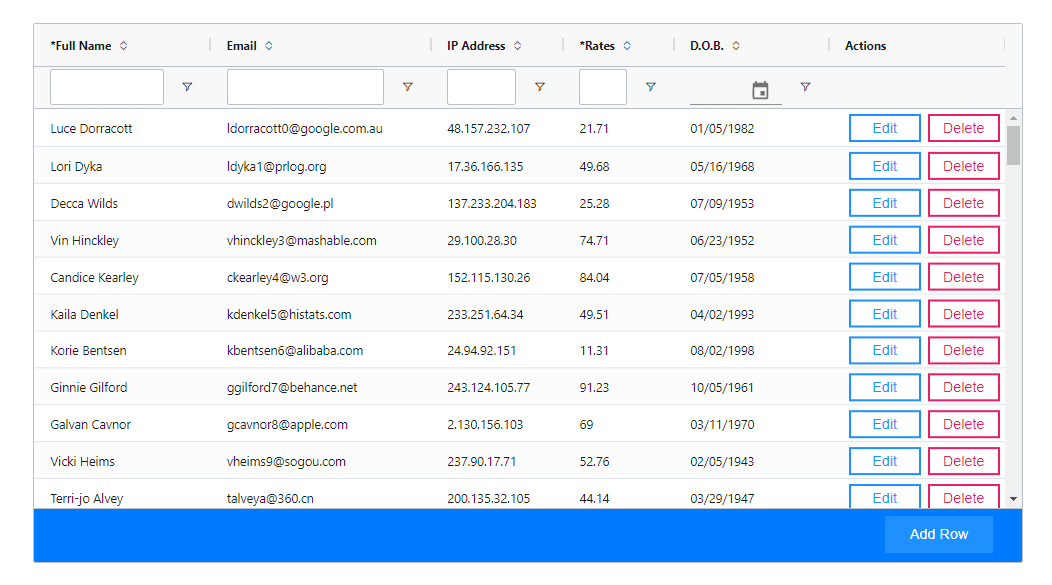
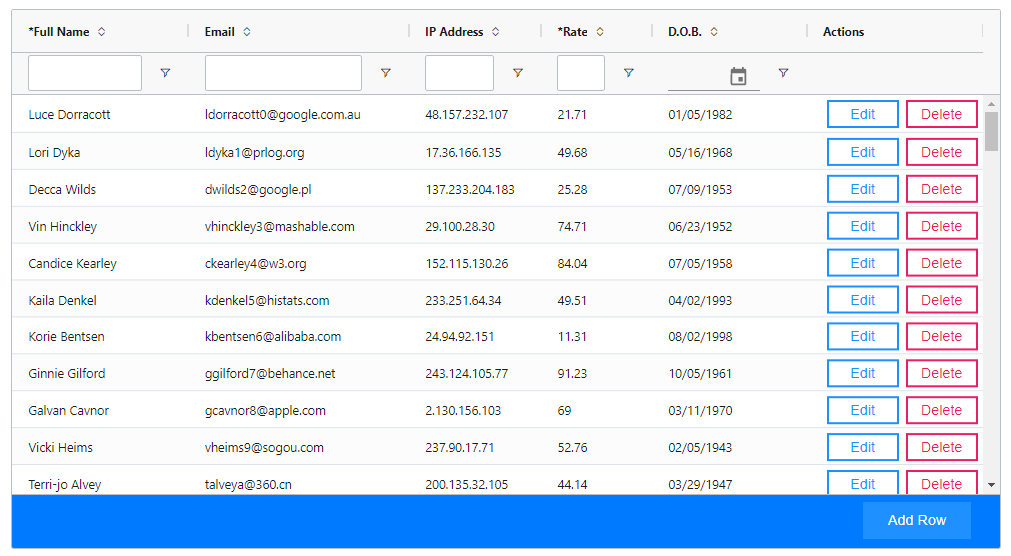
Updated

diff --git a/client/src/columns.js b/client/src/columns.js
@@ -27,7 +27,7 @@ export const columnDefs = [
     }
   },
   {
-    headerName: '*Rates',
+    headerName: '*Rate',
     field: 'rate',
     width: 50, sortable: true, unSortIcon: true, filter: 'agNumberColumnFilter', floatingFilter: true, resizable: true,
     cellEditor: 'validationEditor',

diff --git a/README.md b/README.md
@@ -1,6 +1,13 @@
-## 'Results'
+## `Results`
 
 ![grid pic](https://github.com/bchariot/ReactCRUD/blob/master/client/public/grid.png?raw=true)
+
+When adding or editing a row the following validation rules are applied:
+- columns 'Full Name' and 'Rate' are required
+- column 'Email' must be in email format
+- column 'IP Address' must be a properly formed IP address
+- column 'Rate' must be a float with 2 decimal places
+- column 'D.O.B' must be a date using the 'MM/dd/yyyy' format
 
 ### `Development`
 
